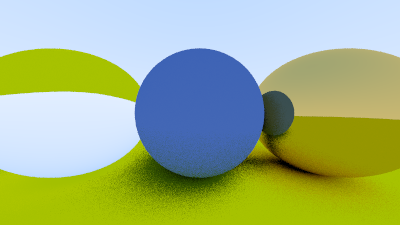
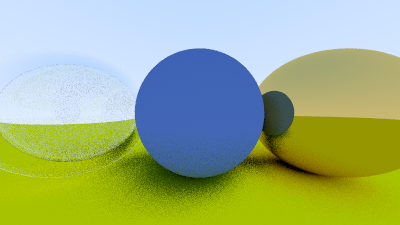
10.5 finished

diff --git a/ray-tracing-in-one-weekend/src/utils/material.h b/ray-tracing-in-one-weekend/src/utils/material.h
@@ -75,7 +75,8 @@ public:
         bool cannot_refract = refraction_ratio * sin_theta > 1.0;
         Eigen::Vector3f direction;
 
-        if (cannot_refract)
+        if (cannot_refract || 
+            reflectance(cos_theta, refraction_ratio) > random_float()) // 部分反射，部分折射
             direction = reflect(unit_direction, rec.normal);
         else
             direction = refract(unit_direction, rec.normal, refraction_ratio);
@@ -87,6 +88,14 @@ public:
 
 public:
     float ir; // Index of Refraction 材质折射率/光线传输介质折射率
+
+private:
+    static float reflectance(float cosine, float ref_idx) {
+        // Use Schlick's approximation for reflectance.
+        auto r0 = (1 - ref_idx) / (1 + ref_idx);
+        r0 = r0 * r0;
+        return r0 + (1 - r0) * pow((1 - cosine), 5);
+    }
 };
 
 #endif
